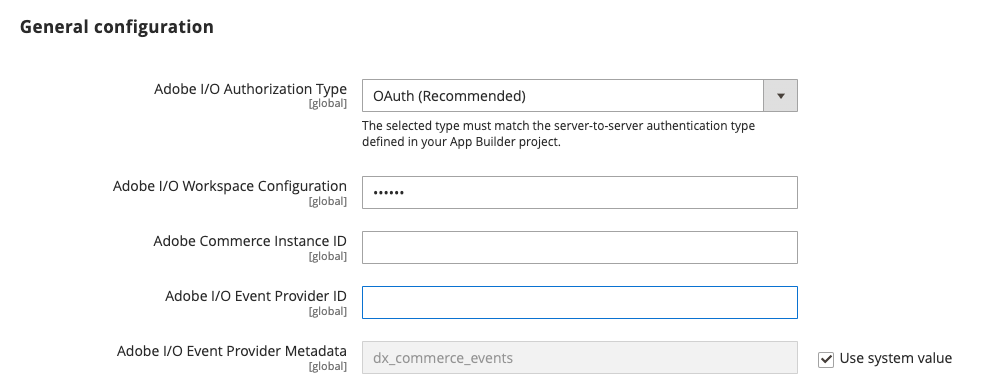
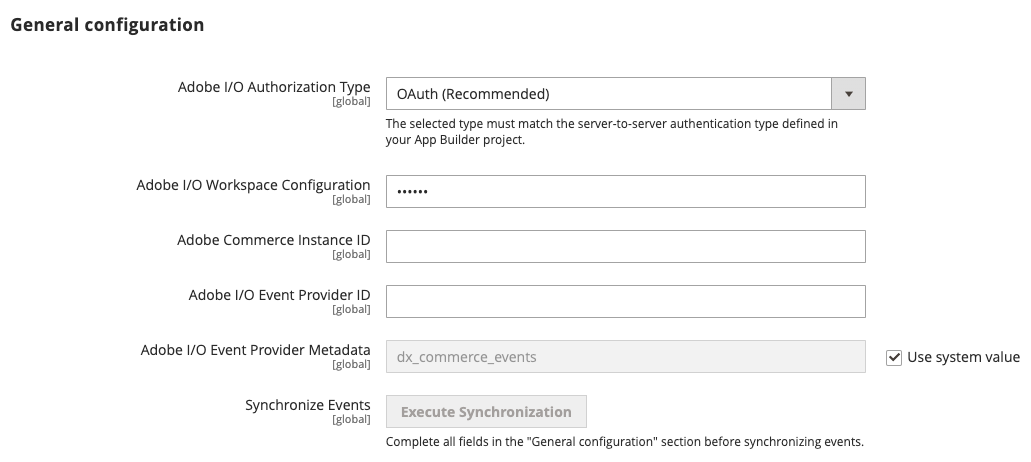
CEXT-3337: Added sync events button to eventing config

diff --git a/src/pages/events/configure-commerce.md b/src/pages/events/configure-commerce.md
@@ -42,7 +42,7 @@ You must configure Commerce to communicate with your project. Configuration incl
 
 Create an `Event Provider` in Adobe I/O Events to associate the Commerce Events subscriptions with the provider. The event subscriptions in Adobe Commerce are created as `Event Metadata` in Adobe I/O Events infrastructure.
 
-Each `Event Provider` can link to multiple event subscriptions (`Event Metadata`). The event's subscriptions will be automatically linked to your `Event Provider` whenever you subscribe with the `events:subscribe` CLI command. You can also manually synchronize all subscriptions with the `events:metadata:populate` command. The events subscriptions synchronization is also called each time during the execution of `setup:upgrade` command.
+Each `Event Provider` can link to multiple event subscriptions (`Event Metadata`). The event's subscriptions will be automatically linked to your `Event Provider` whenever you subscribe with the `events:subscribe` CLI command. You can also manually synchronize all subscriptions with the `events:metadata:populate` command or the `Execute Synchronization` button in the Adobe I/O Events congfiguration section of the Commerce Admin. The events subscriptions synchronization is also called each time during the execution of `setup:upgrade` command.
 
 You can find the list of Event Providers created in your organization, in the App Builder UI when [creating an Event Registration in App Builder](#subscribe-and-register-events).
 
